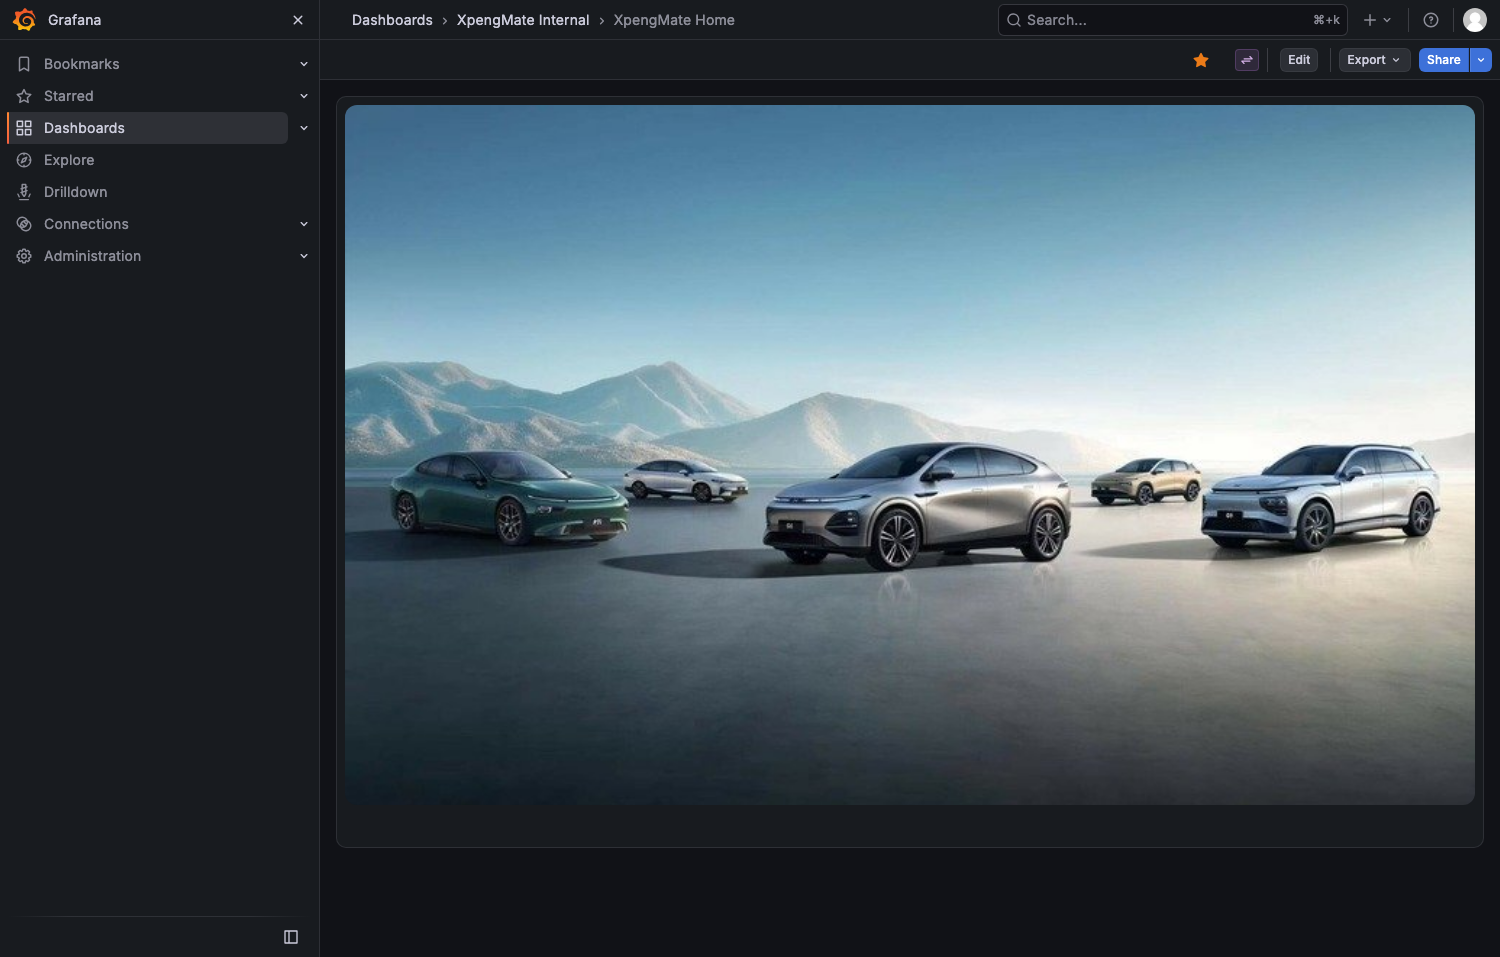
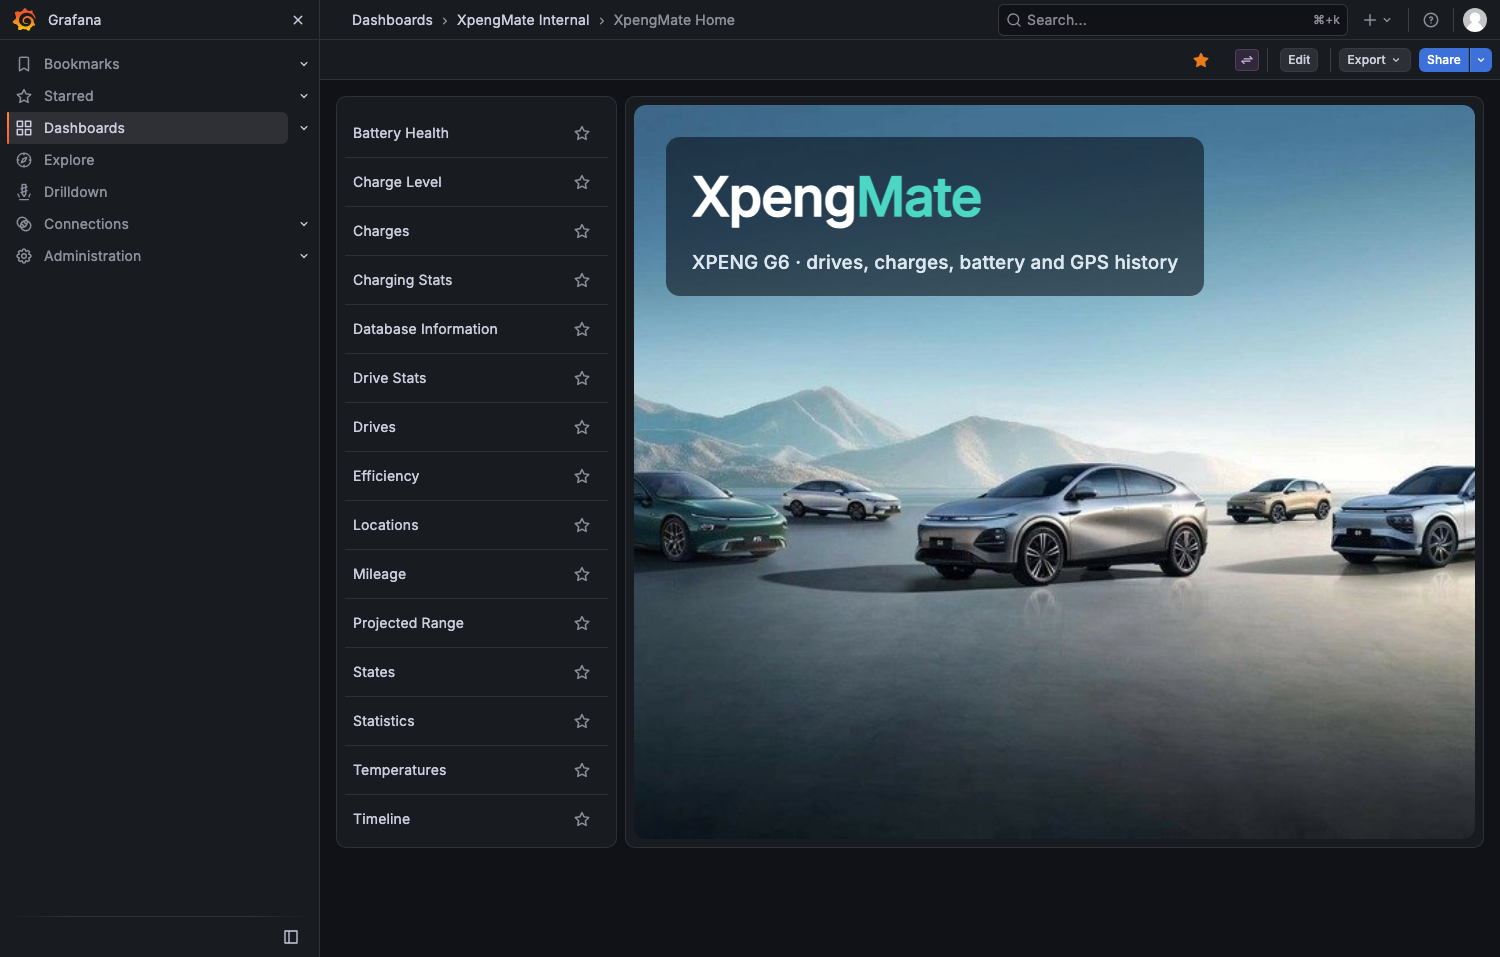
grafana home: restore the dashboard list and overlay the XpengMate wordmark on the photo
The Home dashboard is the dashboard list plus the supplied XPENG photo with the
XpengMate wordmark and tagline overlaid on the image in a translucent card -
replacing the drawn car graphic rather than removing the branding.

diff --git a/README.md b/README.md
@@ -211,10 +211,10 @@ is picked automatically.
 
 The dashboards are TeslaMate's, rebranded: folder names, panel descriptions, the
 Home dashboard and the datasource display name all say XpengMate, and the Home
-background is the supplied XPENG line-up image and nothing else: the photo fills
-the dashboard (shipped as a Grafana static asset at
-`/public/img/xpengmate-hero.jpg`, referenced by a host-independent URL), with no
-logo, text or dashboard-list panel over it. The
+background is the supplied XPENG line-up image with the XpengMate wordmark and
+tagline overlaid on top of it (shipped as a Grafana static asset at
+`/public/img/xpengmate-hero.jpg`, referenced by a host-independent URL), and the
+dashboard list back beside it. The
 datasource **uid stays `TeslaMate`** because every provisioned panel references
 it; only its display name changed.
 
